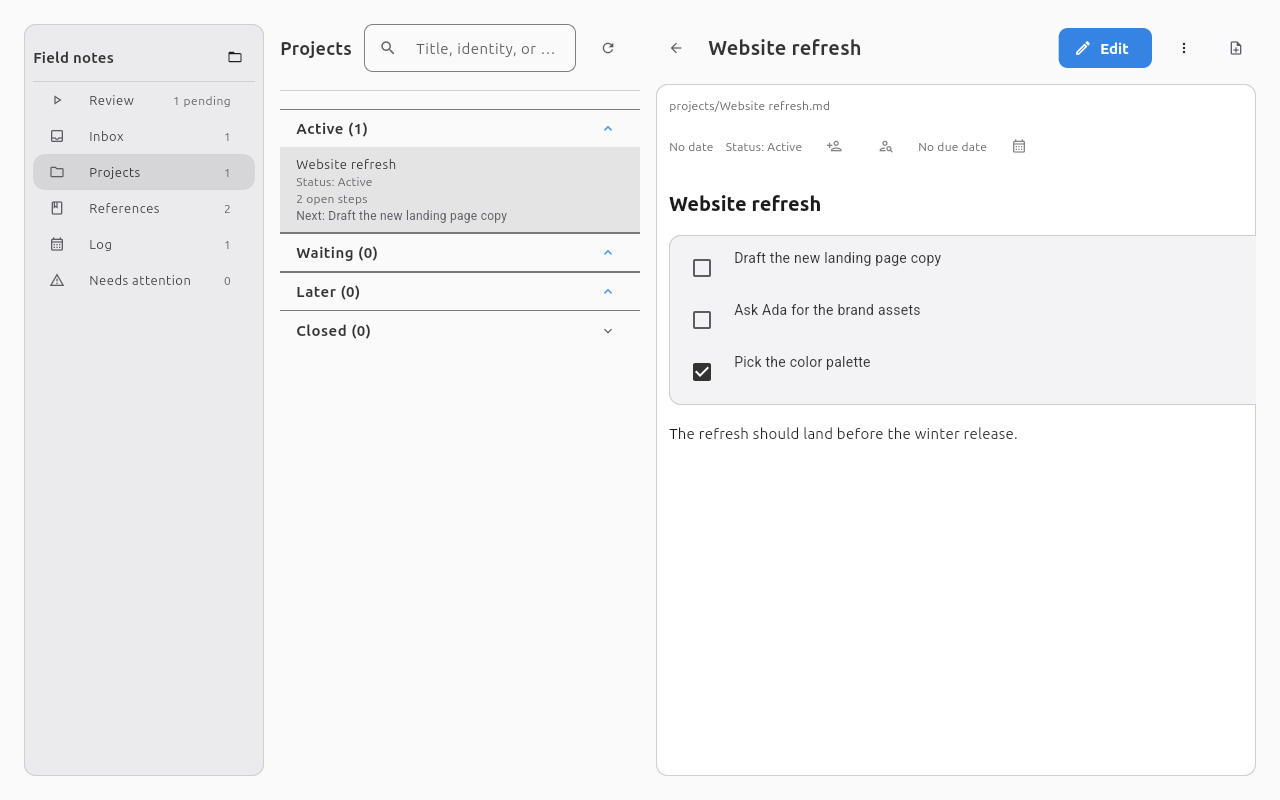
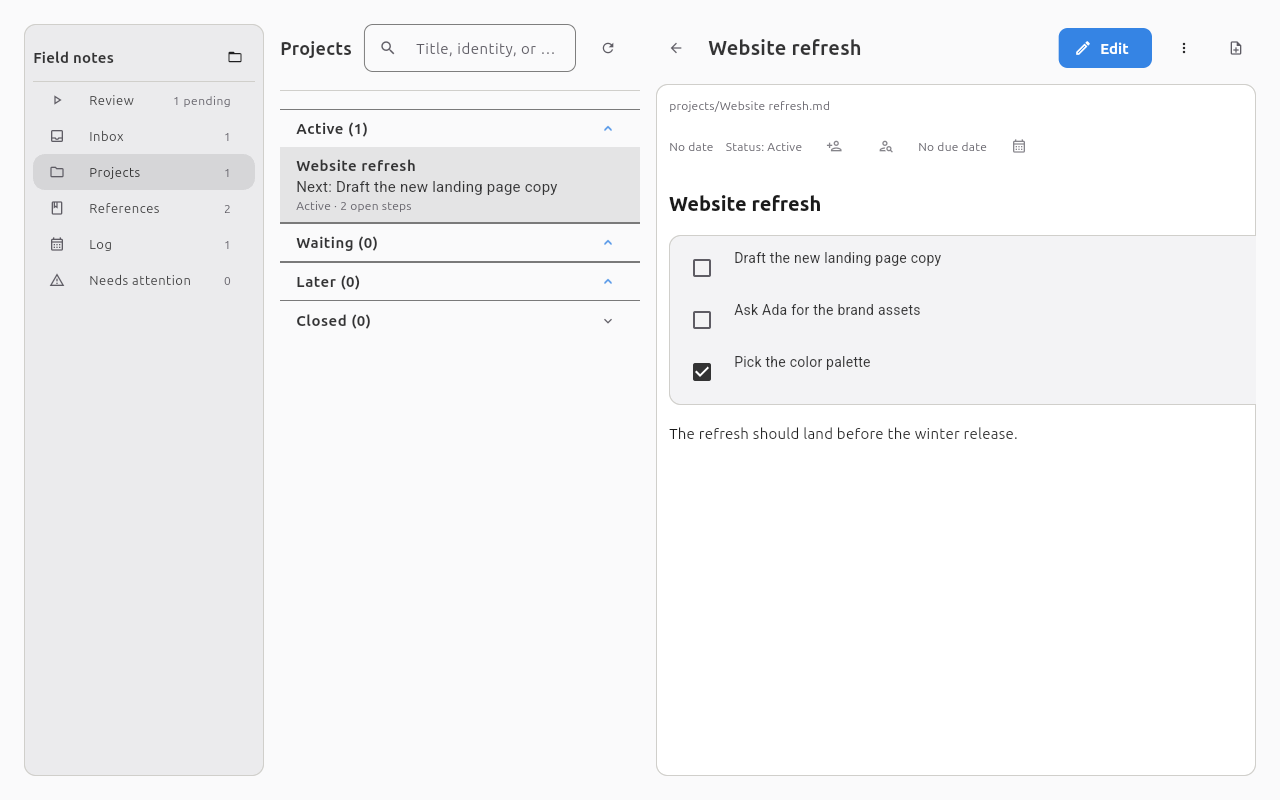
fix(projects): give project rows a clear visual hierarchy
Follow the HIG list and typography guidance: lead each row with a bold title and its next step in body text, fold status, due date, and open-step count into one muted metadata line, and drop the toolkit's dense row mode. The conformance dense-row ledger shrinks by two.

Changed region(s): [[0.2188, 0.1875, 0.5, 0.4375], [0.4688, 0.375, 0.5, 0.4062]]

diff --git a/tests/ui/test_projects_view.py b/tests/ui/test_projects_view.py
@@ -78,6 +78,10 @@ def _project_tiles(view: afanes.ui.views.projects.ProjectsView, stage: str) -> l
     return [control for control in _group(view, stage).controls or [] if isinstance(control, ft.ListTile)]
 
 
+def _titles(view: afanes.ui.views.projects.ProjectsView, stage: str) -> list[str]:
+    return [control.title.value for control in _project_tiles(view, stage) if isinstance(control.title, ft.Text)]
+
+
 def _details(tile: ft.ListTile) -> list[str]:
     subtitle = tile.subtitle
     assert isinstance(subtitle, ft.Column)
@@ -98,10 +102,10 @@ class TestProjectGrouping:
         _write_note(vault / "projects" / "Finished.md", status="done")
         view = _open_view(tmp_path, monkeypatch)
 
-        assert [tile.title for tile in _project_tiles(view, "active")] == ["Now", "Plain"]
-        assert [tile.title for tile in _project_tiles(view, "waiting")] == ["Blocked"]
-        assert [tile.title for tile in _project_tiles(view, "later")] == ["Someday"]
-        assert [tile.title for tile in _project_tiles(view, "closed")] == ["Finished"]
+        assert _titles(view, "active") == ["Now", "Plain"]
+        assert _titles(view, "waiting") == ["Blocked"]
+        assert _titles(view, "later") == ["Someday"]
+        assert _titles(view, "closed") == ["Finished"]
 
     def test_closed_group_starts_collapsed(self, tmp_path: Path, monkeypatch: pytest.MonkeyPatch) -> None:
         vault = tmp_path / "vault"
@@ -113,17 +117,18 @@ class TestProjectGrouping:
         assert _group(view, "later").expanded is True
         assert _group(view, "closed").expanded is False
 
-    def test_status_labels_are_shown(self, tmp_path: Path, monkeypatch: pytest.MonkeyPatch) -> None:
+    def test_status_is_shown_in_the_metadata_line(self, tmp_path: Path, monkeypatch: pytest.MonkeyPatch) -> None:
         vault = tmp_path / "vault"
         _write_note(vault / "projects" / "Now.md", status="active")
         _write_note(vault / "projects" / "Plain.md")
         view = _open_view(tmp_path, monkeypatch)
+        expected = afanes.ui.strings.PROJECT_META_SEPARATOR.join(["Active", afanes.ui.strings.open_step_count(0)])
 
         active_details = _details(_project_tiles(view, "active")[0])
         plain_details = _details(_project_tiles(view, "active")[1])
 
-        assert "Status: Active" in active_details
-        assert "Status: Active" in plain_details
+        assert active_details[-1] == expected
+        assert plain_details[-1] == expected
 
 
 class TestProjectRows:
@@ -139,9 +144,36 @@ class TestProjectRows:
 
         details = _details(_project_tiles(view, "active")[0])
 
-        assert "Due 2026-11-20" in details
-        assert "1 open step" in details
+        assert "Due 2026-11-20" in details[-1]
+        assert "1 open step" in details[-1]
         assert "Next: Write copy" in details
+
+    def test_row_leads_with_the_next_step_and_keeps_metadata_quiet(
+        self, tmp_path: Path, monkeypatch: pytest.MonkeyPatch
+    ) -> None:
+        vault = tmp_path / "vault"
+        _write_note(
+            vault / "projects" / "Launch.md",
+            status="active",
+            due_date="2026-11-20",
+            body="# Launch\n\n- [ ] Write copy\n",
+        )
+        view = _open_view(tmp_path, monkeypatch)
+        tile = _project_tiles(view, "active")[0]
+        subtitle = tile.subtitle
+
+        assert isinstance(tile.title, ft.Text)
+        assert tile.title.style == afanes.ui.theme.TEXT_ROLES["heading"]
+        assert isinstance(subtitle, ft.Column)
+        next_step, metadata = subtitle.controls
+        assert isinstance(next_step, ft.Markdown)
+        style_sheet = next_step.md_style_sheet
+        assert style_sheet is not None
+        assert style_sheet.p_text_style == afanes.ui.theme.TEXT_ROLES["body"]
+        assert isinstance(metadata, ft.Text)
+        assert metadata.style == afanes.ui.theme.TEXT_ROLES["caption"]
+        assert not tile.dense
+        assert not _group(view, "active").dense
 
     def test_row_without_due_date_omits_it(self, tmp_path: Path, monkeypatch: pytest.MonkeyPatch) -> None:
         vault = tmp_path / "vault"
@@ -164,11 +196,11 @@ class TestProjectRows:
         view = _open_view(tmp_path, monkeypatch)
 
         tiles = _project_tiles(view, "waiting")
-        assert [tile.title for tile in tiles] == ["Launch"]
+        assert [tile.title.value for tile in tiles if isinstance(tile.title, ft.Text)] == ["Launch"]
         details = _details(tiles[0])
-        assert "Status: Waiting" in details
-        assert afanes.ui.strings.PROJECT_DUE.format(date="2026-12-01") in details
-        assert "2 open steps" in details
+        assert "Waiting" in details[-1]
+        assert afanes.ui.strings.PROJECT_DUE.format(date="2026-12-01") in details[-1]
+        assert "2 open steps" in details[-1]
         assert any("Write copy" in detail for detail in details)
         assert "Sam Rivera" not in " ".join(details)
         assert all("Owner" not in detail for detail in details)
@@ -193,11 +225,11 @@ class TestProjectRows:
         view.refresh()
 
         tiles = _project_tiles(view, "waiting")
-        assert [tile.title for tile in tiles] == ["Launch"]
+        assert [tile.title.value for tile in tiles if isinstance(tile.title, ft.Text)] == ["Launch"]
         details = _details(tiles[0])
-        assert "Status: Waiting" in details
-        assert afanes.ui.strings.PROJECT_DUE.format(date="2026-12-01") in details
-        assert "2 open steps" in details
+        assert "Waiting" in details[-1]
+        assert afanes.ui.strings.PROJECT_DUE.format(date="2026-12-01") in details[-1]
+        assert "2 open steps" in details[-1]
         assert any("Write copy" in detail for detail in details)
         assert "Sam Rivera" not in " ".join(details)
 
@@ -208,7 +240,7 @@ class TestProjectRows:
 
         details = _details(_project_tiles(view, "active")[0])
 
-        assert "0 open steps" in details
+        assert "0 open steps" in details[-1]
         assert "No next step" in details
 
     def test_next_step_renders_markdown(self, tmp_path: Path, monkeypatch: pytest.MonkeyPatch) -> None:
@@ -241,7 +273,7 @@ class TestProjectRows:
 
         details = _details(_project_tiles(view, "active")[0])
 
-        assert "2 open steps" in details
+        assert "2 open steps" in details[-1]
 
 
 class TestProjectSelection:
@@ -285,7 +317,7 @@ class TestProjectRefresh:
             body="# Launch\n\n- [ ] Write copy\n",
         )
         view = _open_view(tmp_path, monkeypatch)
-        assert "1 open step" in _details(_project_tiles(view, "active")[0])
+        assert "1 open step" in _details(_project_tiles(view, "active")[0])[-1]
 
         _write_note(
             vault / "projects" / "Launch.md",
@@ -296,7 +328,7 @@ class TestProjectRefresh:
         view.refresh()
 
         details = _details(_project_tiles(view, "active")[0])
-        assert "0 open steps" in details
+        assert "0 open steps" in details[-1]
         assert "No next step" in details
 
     def test_search_filters_projects(self, tmp_path: Path, monkeypatch: pytest.MonkeyPatch) -> None:
@@ -308,7 +340,7 @@ class TestProjectRefresh:
 
         view.refresh()
 
-        assert [tile.title for tile in _project_tiles(view, "active")] == ["Launch"]
+        assert _titles(view, "active") == ["Launch"]
 
     def test_step_text_search_lists_the_project_without_the_matching_step(
         self, tmp_path: Path, monkeypatch: pytest.MonkeyPatch
@@ -326,7 +358,7 @@ class TestProjectRefresh:
         view.refresh()
 
         tiles = _project_tiles(view, "active")
-        assert [tile.title for tile in tiles] == ["Launch"]
+        assert _titles(view, "active") == ["Launch"]
         details = _details(tiles[0])
         assert any("Write copy" in detail for detail in details)
         assert "printer" not in " ".join(details).lower()

diff --git a/src/afanes/ui/views/projects.py b/src/afanes/ui/views/projects.py
@@ -101,53 +101,43 @@ class ProjectsView:
             title=ft.Text(f"{label} ({len(projects)})", style=afanes.ui.theme.TEXT_ROLES["heading"]),
             controls=[self._project_tile(summary) for summary in projects],
             expanded=group.stage is not ProjectStage.CLOSED,
-            dense=True,
             maintain_state=True,
             key=f"project-group-{group.stage.value}",
         )
 
     def _project_tile(self, summary: ProjectSummary) -> ft.Control:
-        """Build one clickable project row with its next step."""
+        """Build one clickable project row with its next step and metadata."""
         note = summary.note
-        details: list[ft.Control] = [
-            ft.Text(
-                afanes.ui.strings.PROJECT_STATUS.format(status=StatusLabel(note.status).text),
-                style=afanes.ui.theme.TEXT_ROLES["caption"],
-            )
-        ]
-        if note.due_date is not None:
-            details.append(
-                ft.Text(
-                    afanes.ui.strings.PROJECT_DUE.format(date=note.due_date.isoformat()),
-                    style=afanes.ui.theme.TEXT_ROLES["caption"],
-                )
-            )
-        details.append(
-            ft.Text(
-                afanes.ui.strings.open_step_count(summary.open_count),
-                style=afanes.ui.theme.TEXT_ROLES["caption"],
-            )
-        )
         if summary.next_step is None:
-            details.append(
-                ft.Text(
-                    afanes.ui.strings.PROJECT_NO_NEXT_STEP, style=afanes.ui.theme.TEXT_ROLES["caption"], selectable=True
-                )
+            next_step: ft.Control = ft.Text(
+                afanes.ui.strings.PROJECT_NO_NEXT_STEP,
+                style=afanes.ui.theme.TEXT_ROLES["caption"],
+                selectable=True,
             )
         else:
-            details.append(
-                StepText(
-                    afanes.ui.strings.PROJECT_NEXT_STEP.format(title=summary.next_step.text),
-                    afanes.ui.theme.TEXT_ROLES["caption"],
-                    selectable=True,
-                ).build()
-            )
+            next_step = StepText(
+                afanes.ui.strings.PROJECT_NEXT_STEP.format(title=summary.next_step.text),
+                afanes.ui.theme.TEXT_ROLES["body"],
+                selectable=True,
+            ).build()
+        meta: list[str] = [StatusLabel(note.status).text]
+        if note.due_date is not None:
+            meta.append(afanes.ui.strings.PROJECT_DUE.format(date=note.due_date.isoformat()))
+        meta.append(afanes.ui.strings.open_step_count(summary.open_count))
         page = self._state.pages.page
         return ft.ListTile(
-            title=note.title,
-            subtitle=ft.Column(controls=details, spacing=0),
+            title=ft.Text(note.title, style=afanes.ui.theme.TEXT_ROLES["heading"]),
+            subtitle=ft.Column(
+                controls=[
+                    next_step,
+                    ft.Text(
+                        afanes.ui.strings.PROJECT_META_SEPARATOR.join(meta),
+                        style=afanes.ui.theme.TEXT_ROLES["caption"],
+                    ),
+                ],
+                spacing=0,
+            ),
             selected=page is not None and page.path == note.path,
-            dense=True,
             on_click=self._select_handler(note.path),
             key=f"project-{note.relative_path.as_posix()}",
         )

diff --git a/tests/ui/test_workspace_view.py b/tests/ui/test_workspace_view.py
@@ -322,7 +322,11 @@ class TestWorkspaceShell:
             for control in projects_root.controls
             if isinstance(control, ft.ExpansionTile) and control.key == "project-group-active"
         )
-        titles = [control.title for control in active_group.controls or [] if isinstance(control, ft.ListTile)]
+        titles = [
+            control.title.value
+            for control in active_group.controls or []
+            if isinstance(control, ft.ListTile) and isinstance(control.title, ft.Text)
+        ]
         assert titles == ["Launch"]
 
     def test_section_counts_follow_the_scan(self, tmp_path: Path, monkeypatch: pytest.MonkeyPatch) -> None:

diff --git a/src/afanes/ui/strings.py b/src/afanes/ui/strings.py
@@ -174,6 +174,7 @@ PROJECT_NEXT_STEP = "Next: {title}"
 PROJECT_NO_NEXT_STEP = "No next step"
 PROJECT_DUE = "Due {date}"
 PROJECT_STATUS = "Status: {status}"
+PROJECT_META_SEPARATOR = " · "
 PROCESS_ACTION = "Process"
 PROCESSING_TITLE = "Process capture"
 PROCESSING_CAPTURE = "Capture"

diff --git a/tests/ui/test_conformance.py b/tests/ui/test_conformance.py
@@ -95,7 +95,6 @@ BASELINE: dict[str, dict[str, int]] = {
         "views/page.py": 2,
         "views/processing.py": 2,
         "views/project_body.py": 2,
-        "views/projects.py": 2,
         "views/workspace.py": 5,
     },
 }

diff --git a/docs/guide/projects-and-steps.md b/docs/guide/projects-and-steps.md
@@ -21,10 +21,11 @@ The Projects group lists every parsed project under **Active**, **Waiting**, **L
 A project without a status is active. `done`, `cancelled`, and `archived` projects are closed, and the
 Closed group starts collapsed.
 
-Each project row shows its status, optional due date, count of open steps, and next step. An open step
-is an unchecked task-list item in the project body; checked steps are not counted. The next step is
-rendered Markdown, so links and emphasis appear as labels rather than raw source; raw Markdown appears
-only in edit mode.
+Each project row shows its status, optional due date, count of open steps, and next step. The next
+step leads the row in body text; status, due date, and open-step count share one muted metadata line
+under it. An open step is an unchecked task-list item in the project body; checked steps are not
+counted. The next step is rendered Markdown, so links and emphasis appear as labels rather than raw
+source; raw Markdown appears only in edit mode.
 
 ## ➡ The next step
 

diff --git a/docs/develop/interface-standard.md b/docs/develop/interface-standard.md
@@ -144,6 +144,13 @@ part of the standard; the gate rejects them. The application does not bundle a f
 theme leaves the family unset so Flutter resolves the platform font, and the resolved family is
 checked per platform at release.
 
+## 📋 Lists and rows
+
+Browser lists follow the reference list view rather than a card grid: a row keeps a heading title,
+at most one body-weight supporting line, and one muted caption line for metadata. Rows do not use
+the toolkit's dense mode. The standard row height and the type roles carry the hierarchy, so a list
+does not become a wall of equally muted text. A selected row keeps the neutral selected-row fill.
+
 ## 🖼 Icons
 
 Interface icons use monochrome symbolic or outlined glyphs at `ICON_SIZE` (16) or
